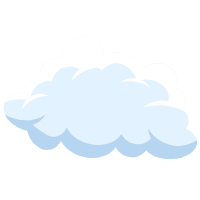
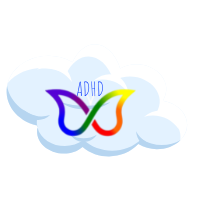
test

Changed region(s): [[0.0, 0.27, 0.99, 0.81]]

diff --git a/application/src/main/resources/static/js/react-client/src/pages/home/index.js b/application/src/main/resources/static/js/react-client/src/pages/home/index.js
@@ -5,8 +5,8 @@ import Autism from "../../pages/autism";
 import {Link} from "react-router-dom";
 import Parent from "../../pages/parent";
 import logo from "../../assest/logo.png";
-
-
+import cloud1 from "../../assest/cloud1.png";
+import cloud2 from "../../assest/cloud2.png";
 const Home = () => {
     return(
         <div>
@@ -17,19 +17,22 @@ const Home = () => {
                 <div className={style.homeLogo}>
                 <img src={logo} alt={"logo"}></img>
                 </div>
-                <div className={style.homeAdbtn}>
-                 <Link  to={'/adhd'}>ADHD</Link>
-                 </div>
-                 <div className={style.homeAbtn}>
-                 <Link to={'/autism'}>Autism</Link>
-                 </div>
-                 </section>
-                 <section className={style.homeADHD}>
+                <div className={style.homeADHDbtn}>
+                <Link to={'/adhd'}><img src={cloud1} alt={"cloud1"}></img></Link>
+                </div>
+                <div className={style.homeAbtn}>
+                <Link to={'/autism'}><img src={cloud2} alt={"cloud2"}></img></Link>
+                </div>
+                </section>
+                
+                <section className={style.homeADHD}>
                 <Link to={'/adhd'}>adhd tool box</Link>
                 </section>
+
                 <section className={style.homeAutism}>
                 <Link to={'/autism'}>Autism toolbox</Link>
                 </section>
+
                 <section className={style.homeParent}>
                 <Link to={'/parent'}>Parent toolbox</Link>
                 </section>

diff --git a/application/src/main/resources/static/js/react-client/src/components/app-router/index.js b/application/src/main/resources/static/js/react-client/src/components/app-router/index.js
@@ -1,6 +1,5 @@
 import { Route, Switch } from 'react-router-dom';
-
-import ADHD from '../../pages/adhd';
+import Timer from '../../pages/timer';
 import About from '../../pages/about';
 import Autism from '../../pages/autism';
 import Home from '../../pages/home';
@@ -13,18 +12,20 @@ import AdhdVideos from '../../pages/adhd-videos';
 import Adhd from '../../pages/adhd';
 
 
+
 const AppRouter = () => {
     return (
 
         <Switch>
             <Route exact path={'/'} component={Home} />
-            <Route exact path={'/adhd'} component={ADHD} />
+            <Route exact path={'/adhd'} component={Adhd} />
             <Route exact path={'/autism'} component={Autism} />
             <Route exact path={'/parent'} component={Parent} />
             <Route exact path={'/about'} component={About} />
             <Route exact path={'/pages/quotes'} component={Quotes} /> 
             <Route path={'/adhd-videos'} component={AdhdVideos}/>
             <Route path={'/adhd-videos'} component={Adhd}/>
+            <Route path={'/timer'} component={Timer}/>
             {/* <Route path={'/planets'} component={Planet} />
             <Route path={'/add-planet'} component={AddPlanet} />
             <Route path={"/edit-planet/:id"} component={AddPlanet} /> */}

diff --git a/application/src/main/resources/static/js/react-client/src/pages/timer/index.js b/application/src/main/resources/static/js/react-client/src/pages/timer/index.js
@@ -1,0 +1,48 @@
+import React from 'react';
+import { useState, useEffect } from 'react';
+import style from './style.module.scss';
+
+const Timer = () => {
+  const [days, setDays] = useState(0);
+  const [hours, setHours] = useState(0);
+  const [minutes, setMinutes] = useState(0);
+  const [seconds, setSeconds] = useState(0);
+
+  const deadline = " userInput";
+
+//   function ()=>{
+//     userInput = 
+//   }
+
+  const getTime = () => {
+    const time = Date.parse(deadline) - Date.now();
+
+    setDays(Math.floor(time / (1000 * 60 * 60 * 24)));
+    setHours(Math.floor((time / (1000 * 60 * 60)) % 24));
+    setMinutes(Math.floor((time / 1000 / 60) % 60));
+    setSeconds(Math.floor((time / 1000) % 60));
+  };
+
+  useEffect(() => {
+    const interval = setInterval(() => getTime(deadline), 1000);
+
+    return () => clearInterval(interval);
+  }, []);
+
+  return (
+    <div className="timer">
+        <div className={style.timerBox}>
+         <ul className={style.timerGrid}>
+            <li>Hours: {hours}</li>
+            <li>Minutes: {minutes}</li>
+            <li>Seconds: {seconds}</li>
+
+
+         </ul>
+        </div>
+        
+    </div>
+  );
+};
+
+export default Timer;

diff --git a/application/src/main/resources/static/js/react-client/src/pages/home/style.module.scss b/application/src/main/resources/static/js/react-client/src/pages/home/style.module.scss
@@ -5,7 +5,7 @@
 }
 
 .homeSection{
-  background-color: rgb(75, 75, 202);
+  background: linear-gradient(rgb(0, 0, 255),rgb(86, 86, 246));
   width: 100%;
   height: 80vh;
   border: 1px;
@@ -18,6 +18,7 @@
   text-align: center;
   justify-content: center;
   padding: 20px;
+  font-size: 35px;
   
 }
 .homeSection p{
@@ -27,26 +28,38 @@
 display: flex;
 padding-right: 12px;
 padding-top: 40px;
-height: 300px;
-width: 300px;
+height: 400px;
+width: 400px;
 margin: auto;
 
 
 }
 
 
-.homeAdbtn a{
-  display: flex;
-  margin-left: 8em;
-  
+.homeADHDbtn  {
+  border-color: rgb(20, 101, 101);
+  border: solid 2px;
+  position: relative;
+ bottom: 20em;
+  display:flex;
+  margin-left: 10px;
+  margin-bottom: 20em;
+  width: 200px;
+  height: 200px;
+  float: left;
+ justify-content: center;
+
 }
+
 .homeAbtn {
-  
- margin-right: 10em;
- margin-bottom: 60em;
+  position: relative;
+  bottom: 20em;
+  padding-bottom: 20em;
+  margin-right: 5em;
+  margin-bottom: 40em;
   text-align: right;
   justify-content: center;
- 
+
  
 
 }

diff --git a/application/src/main/resources/static/js/react-client/src/pages/timer/style.module.scss b/application/src/main/resources/static/js/react-client/src/pages/timer/style.module.scss
@@ -1,0 +1,15 @@
+// .timer{
+//     background-color: green( #000000);
+//     width: 100%vw;
+//     height: 100;
+// }   
+.timerBox{
+    background-color: #000000;
+    margin: auto;
+    width: 50vw;
+    height: 50vh;
+}
+.timerGrid{
+   flex:gridrow;
+   color: white; 
+}
